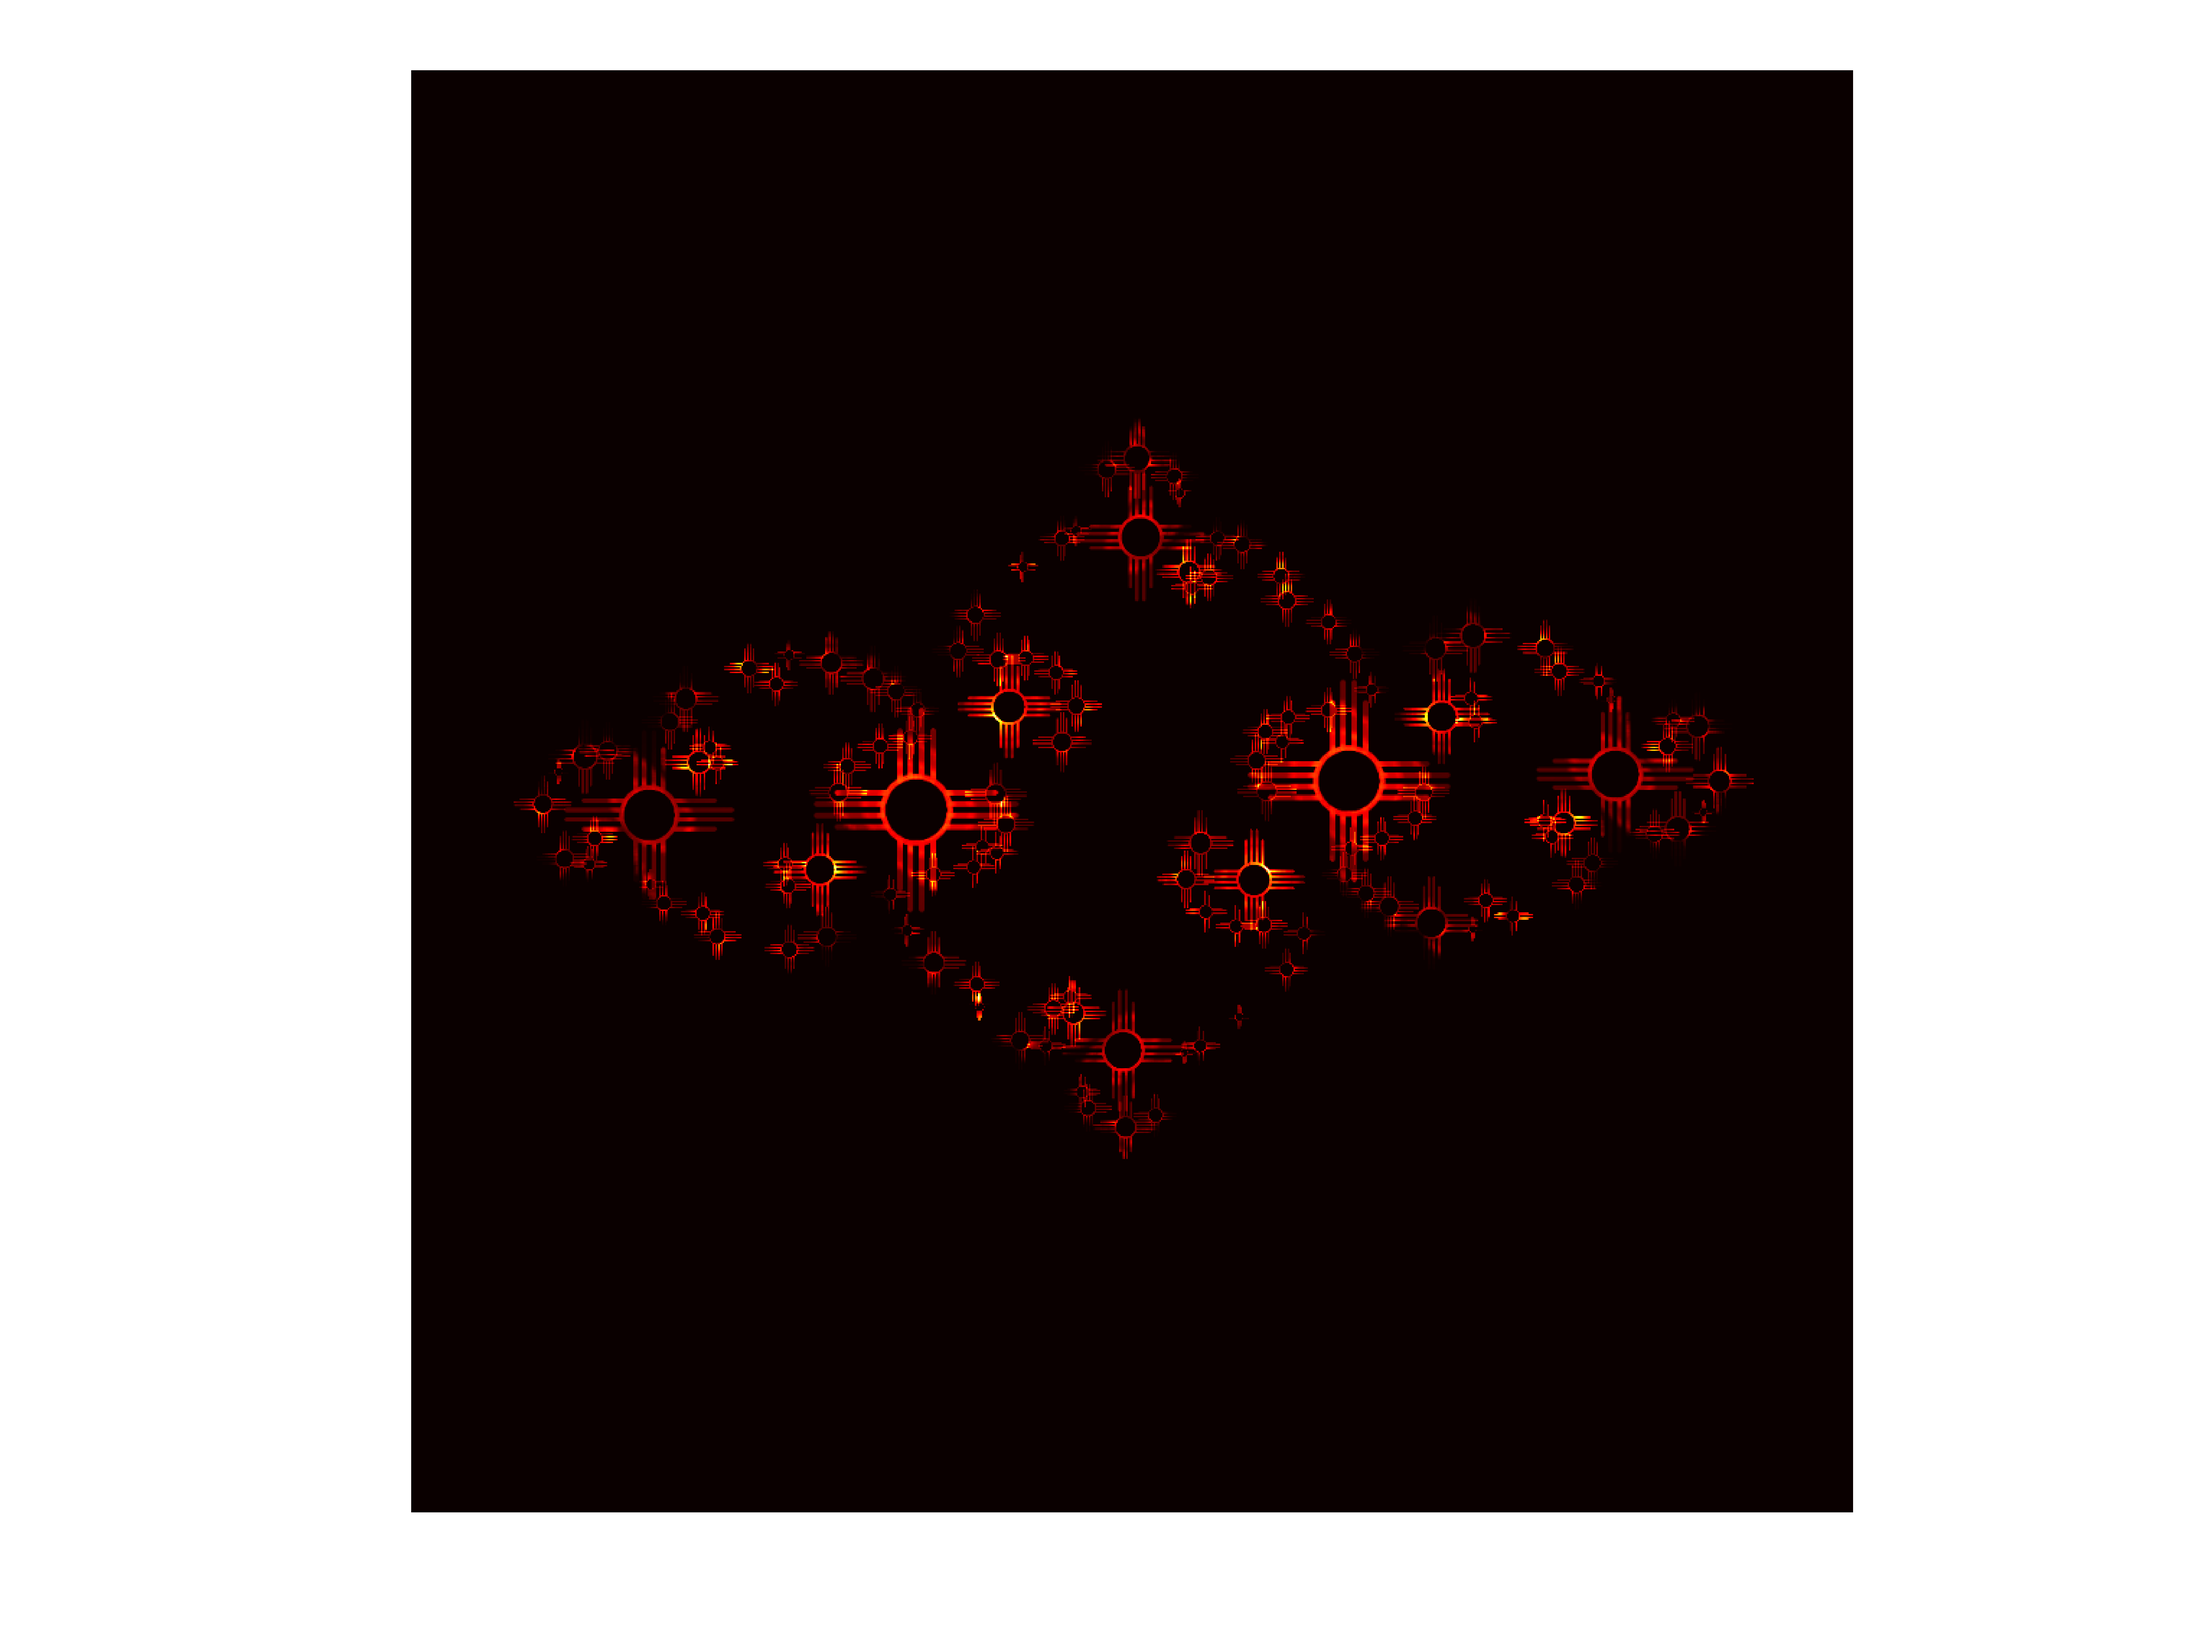
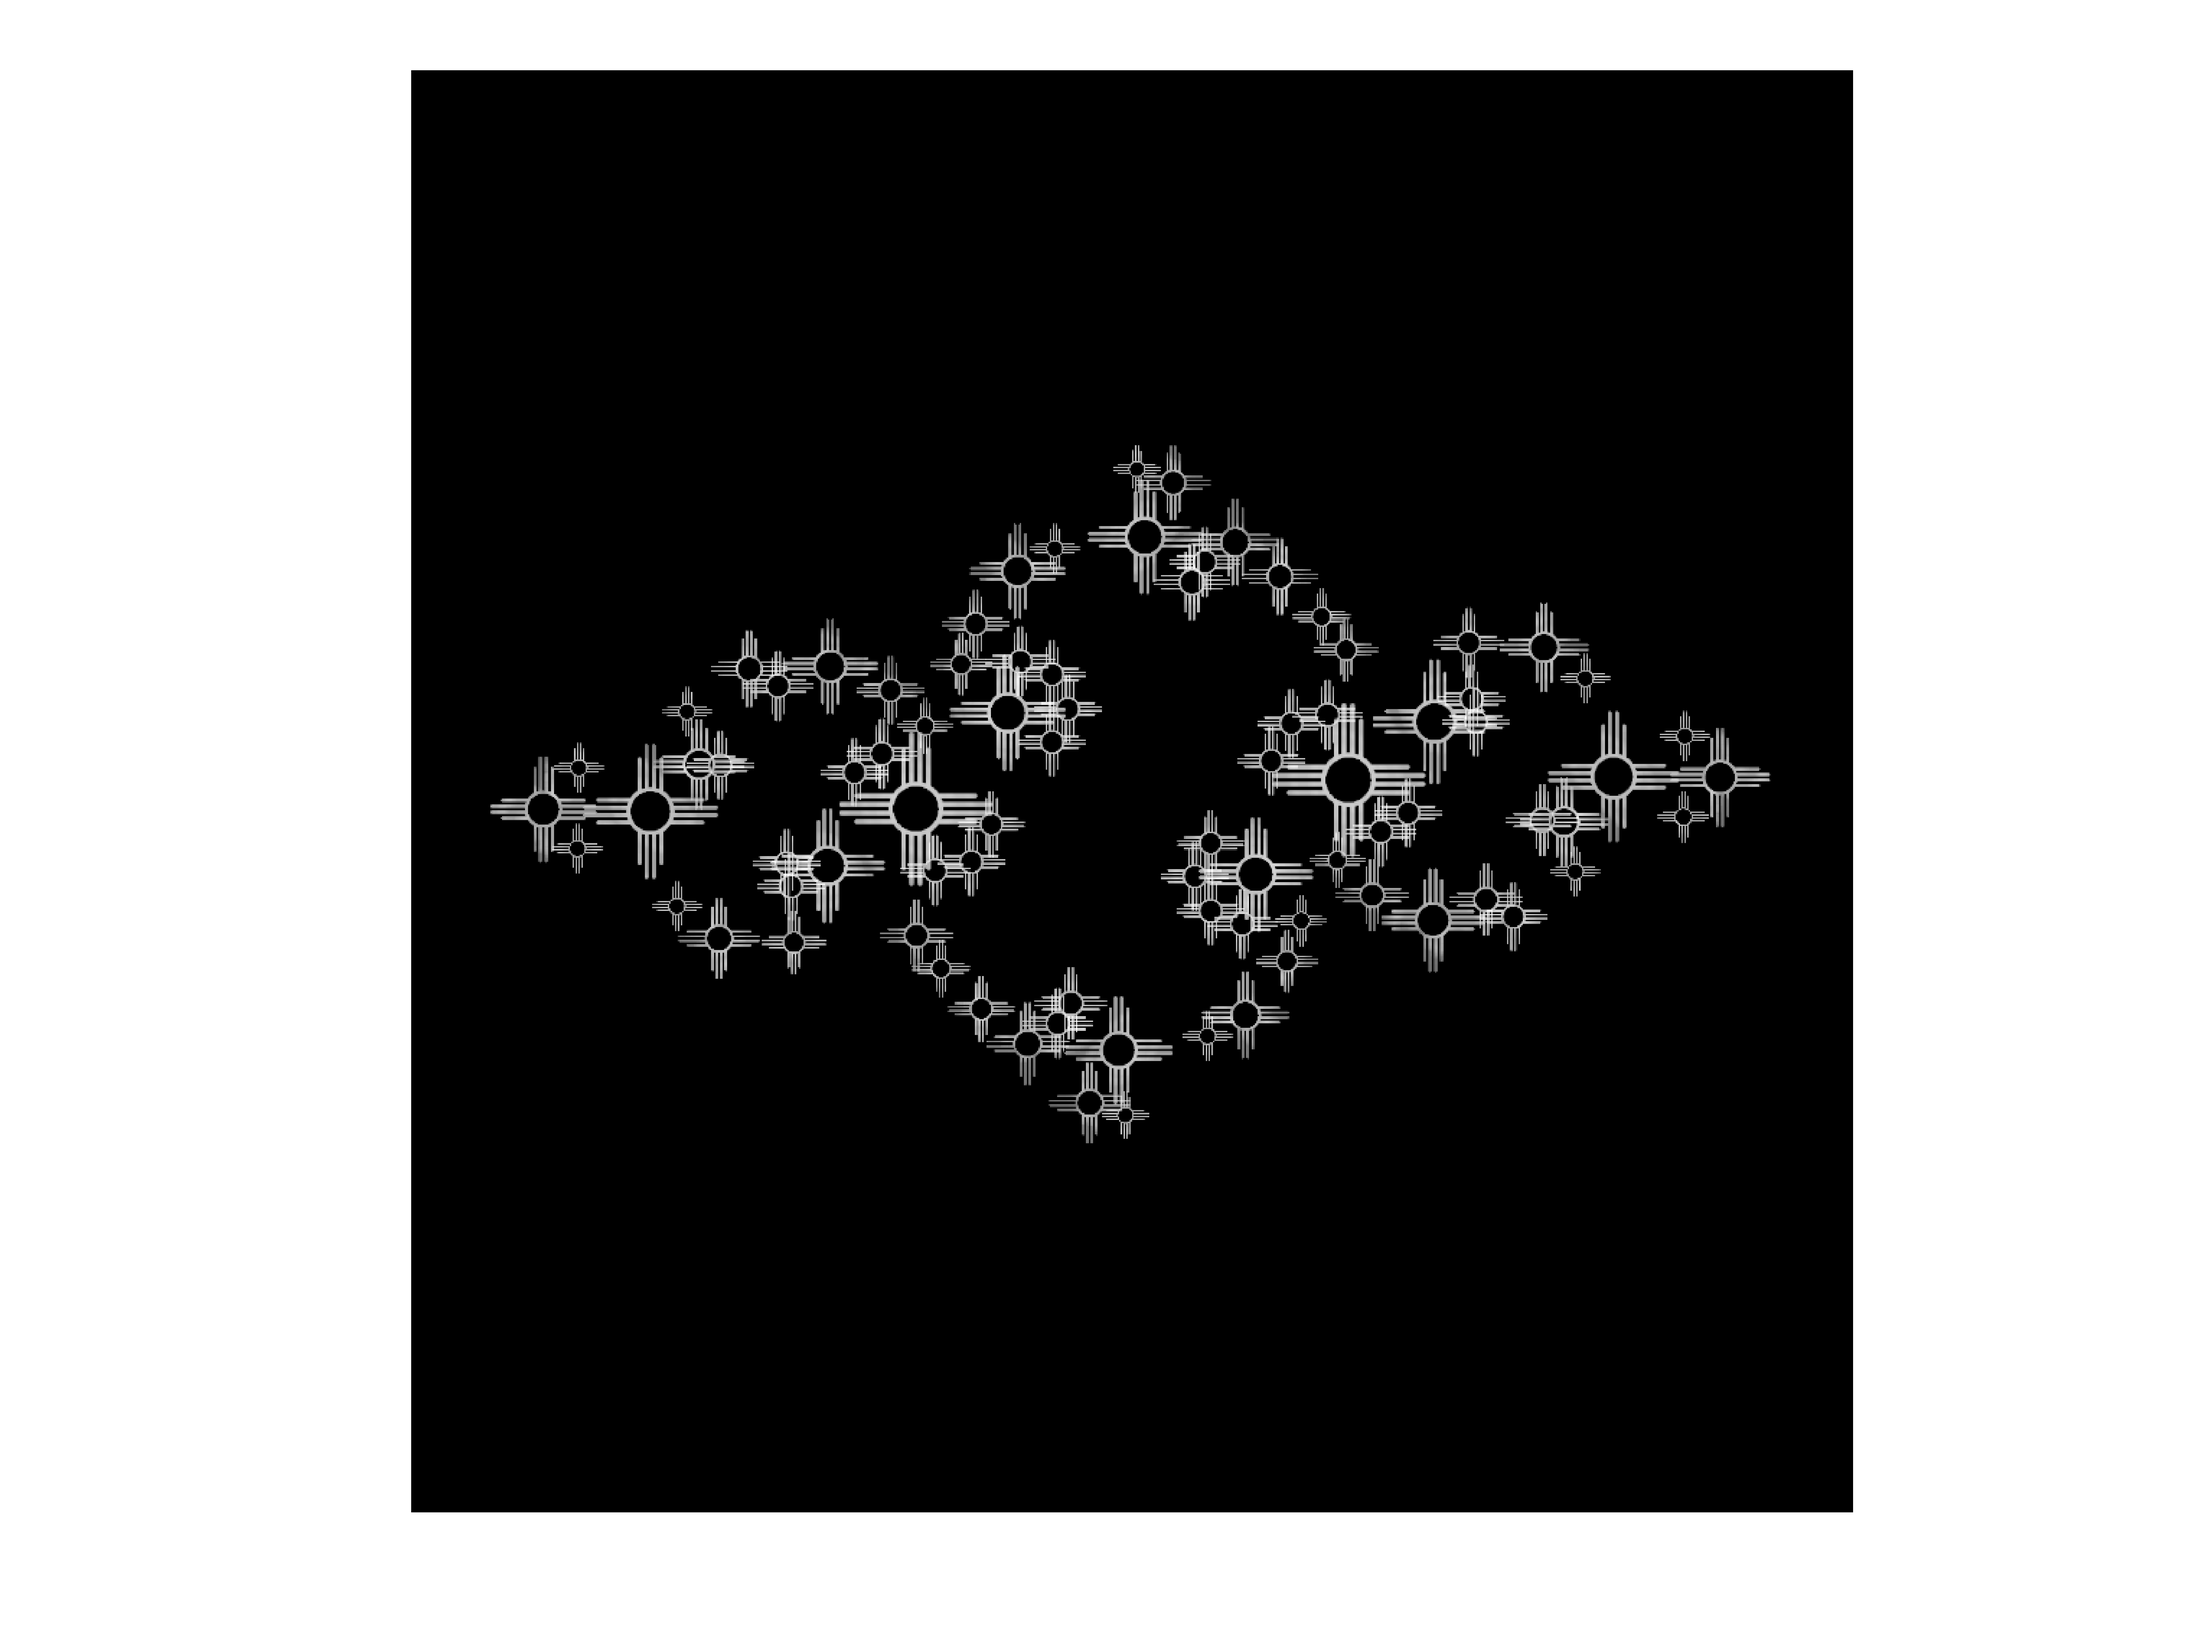
Tweakin

Changed region(s): [[0.2188, 0.25, 0.8125, 0.6875]]

diff --git a/fractal.py b/fractal.py
@@ -212,14 +212,15 @@ def fuse(points, scales, multiplier):
 	return np.array(ret)
 
 
-MIN_FOR_PEAK = 0.2
+MIN_FOR_PEAK = 0.4
 RADIAL_MULTIPLIER = 50
-MIN_ZIA_SIZE = 20
-ZIA_SCALE = 200
+MIN_ZIA_SIZE = 35
+ZIA_SCALE = 150
 
 def place_zias(img, size, ziasmall, ziabig):
 	blurx, blury = int(size[0]/200.), int(size[0]/200.)
 	img = cv2.blur(img, (blurx, blury))
+	img = np.sqrt(img)
 
 	def read_zia(path):
 		ziaimg = cv2.imread(path, cv2.IMREAD_GRAYSCALE)
@@ -238,6 +239,8 @@ def place_zias(img, size, ziasmall, ziabig):
 		scale = scaledimg[peak[0]][peak[1]]
 		peakscales.append(scale)
 	peaks = fuse(peaks, peakscales, RADIAL_MULTIPLIER)
+	if len(peaks) % 2 == 1:
+		peaks = peaks[:-1]
 
 	fig = plt.figure()
 	plt.imshow(img, cmap='gray')
@@ -271,18 +274,30 @@ def place_zias(img, size, ziasmall, ziabig):
 	for peak in peaks:
 		scale = scaledimg[peak[0]][peak[1]]
 		subbox = select_box(mask, peak[0], peak[1], scale, ZIA_SCALE)
-		subbox = np.transpose(cv2.resize(ziaimg, subbox.shape, cv2.INTER_AREA))
+		#print(subbox.shape)
+		if subbox.shape[0] <= MIN_ZIA_SIZE:
+			continue
+		subbox = np.transpose(cv2.resize(ziaimg, subbox.shape, cv2.INTER_CUBIC))
 		mask = replace_box(mask, subbox, peak[0], peak[1], scale, ZIA_SCALE)
 
 	img = mask * img
+	# print(np.max(img))
+	# print(np.std(img[img>0]))
+	# print(np.min(img[img>0]))
+
+	img = np.power(img, 0.3)
 	fig, ax = plt.subplots()
 	plt.axis('off')
 	plt.tight_layout()
 	ax.set_aspect('equal')
-	plt.imshow(img, cmap='hot')
-	plt.savefig('juliaziafract.png', dpi=1000)
+	# print(np.max(img))
+	# print(np.std(img[img>0]))
+	# print(np.min(img[img>0]))
+	# # for row in img:
+	# 	print(row)
+	plt.imshow(img, cmap='gray')
+	plt.savefig('juliaziafract.png', dpi=size[0])
 	plt.show()
-	sys.exit(1)
 	return img
 
 def threshold_img(img, cutoff):
